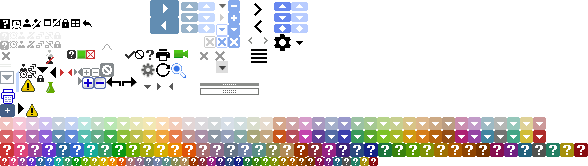
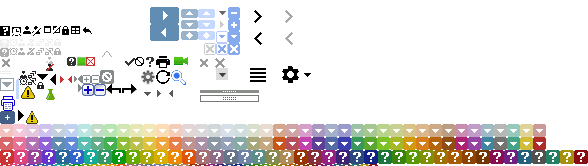
rules & css for next previous navigation

Changed region(s): [[0.0, 0.0, 1.0, 1.0]]

diff --git a/emas/theme/static/css/styles.css b/emas/theme/static/css/styles.css
@@ -88,31 +88,36 @@ div.navigation {
     display: inline-block;
 }
 
-.navbuttonouter {
-    border: 1px solid #ccc;
-    border-radius: 2px;
-    width: 33px;
-    height: 27px;
-}
-
 .navbutton {
+    display: inline-block;
     margin-top: 5px;
     height: 17px;
     padding: 0 2px;
     width: 29px;
+    border: 1px solid #ccc;
+    border-radius: 2px;
+    width: 27px;
+    height: 27px;
 }
 .navback {
+    opacity: 0.25;
     background-image: url("../images/combined_v35_vr.png");
-    background-position: -241px -17px;
+    background-position: -243px -25px;
+}
+.previous {
+    opacity: 1;
 }
 .navforward {
+    opacity: 0.25;
     background-image: url("../images/combined_v35_vr.png");
-    background-position: -241px 0;
+    background-position: -241px -3px;
+}
+.next {
+    opacity: 1;
 }
 .navtoc {
-    opacity: 0.5;
     background-image: url("../images/combined_v35_vr.png");
-    background-position: -242px -47px;
+    background-position: -242px -61px;
 }
 
 #content {

diff --git a/emas/theme/static/theme.html b/emas/theme/static/theme.html
@@ -11,9 +11,9 @@
                 <div id="logo"><img src="images/logo.png"></div>
 
                 <div class="navigation">
-                    <div class="navbuttonouter"><div class="navbutton navback"></div></div>
-                    <div class="navbuttonouter"><div class="navbutton navtoc"></div></div>
-                    <div class="navbuttonouter"><div class="navbutton navforward"></div></div>
+                    <a class="navbutton navback"></a>
+                    <a class="navbutton navtoc"></a>
+                    <a class="navbutton navforward"></a>
                 </div>
 
                 <h1 id="sitetitle">Everything Maths Grade 10</h1>
